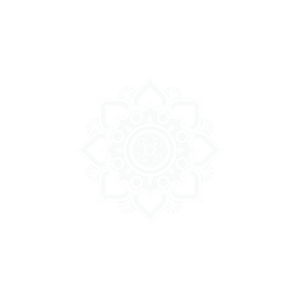
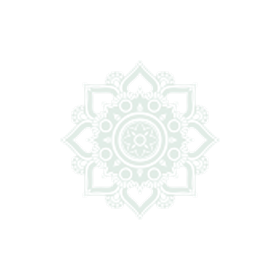
Zmena hlavnej accent farby z terakoty na zelenú podľa loga
Nahradená pôvodná hnedo-oranžová terakota (#bd6b45) tromi odtieňmi
zelenej odvodenými priamo z farby mandala loga (#006532). Menia sa iba
hodnoty CSS premenných --color-clay/-dark/-light v globals.css, takže
sa to prejaví všade, kde sa doteraz používali (tlačidlá, odkazy, ceny,
CTA bloky) bez potreby meniť 67 miest v komponentoch. Sage tón (Cesta
Dvojplameňa/Ženské kruhy) zostáva vizuálne odlíšený.

Mandala textúra na pozadí zvýraznená (~3 % → ~12 % priehľadnosti).

Changed region(s): [[0.2286, 0.2286, 0.7143, 0.7714], [0.7143, 0.4571, 0.7714, 0.5429]]

diff --git a/src/app/globals.css b/src/app/globals.css
@@ -7,9 +7,10 @@
   --color-sand: #e9dcc3;
   --color-ink: #33261c;
   --color-ink-soft: #5a4a3c;
-  --color-clay: #bd6b45;
-  --color-clay-dark: #a35634;
-  --color-clay-light: #e8b79a;
+  /* Hlavný accent — presne odtieň zeleného loga (mandala) namiesto pôvodnej terakoty */
+  --color-clay: #16814a;
+  --color-clay-dark: #0b5c34;
+  --color-clay-light: #bfe0cb;
   --color-sage: #7c8a6a;
   --color-sage-dark: #5f6c50;
   --color-gold: #c8a05a;
